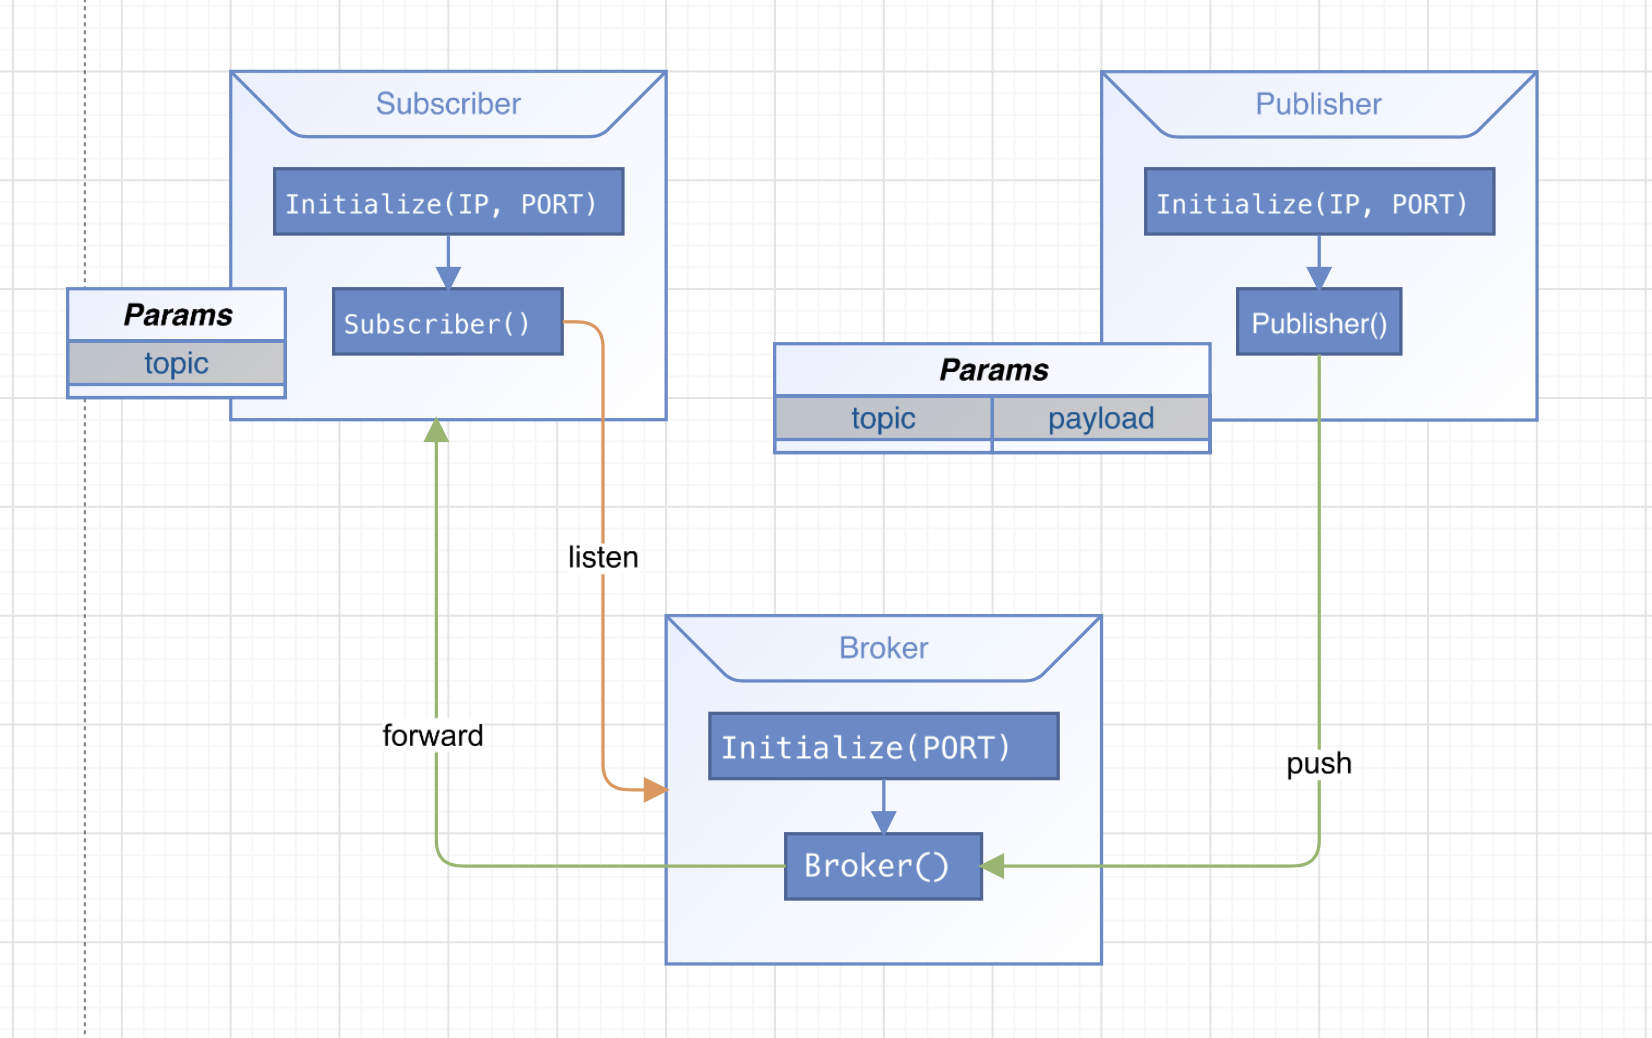
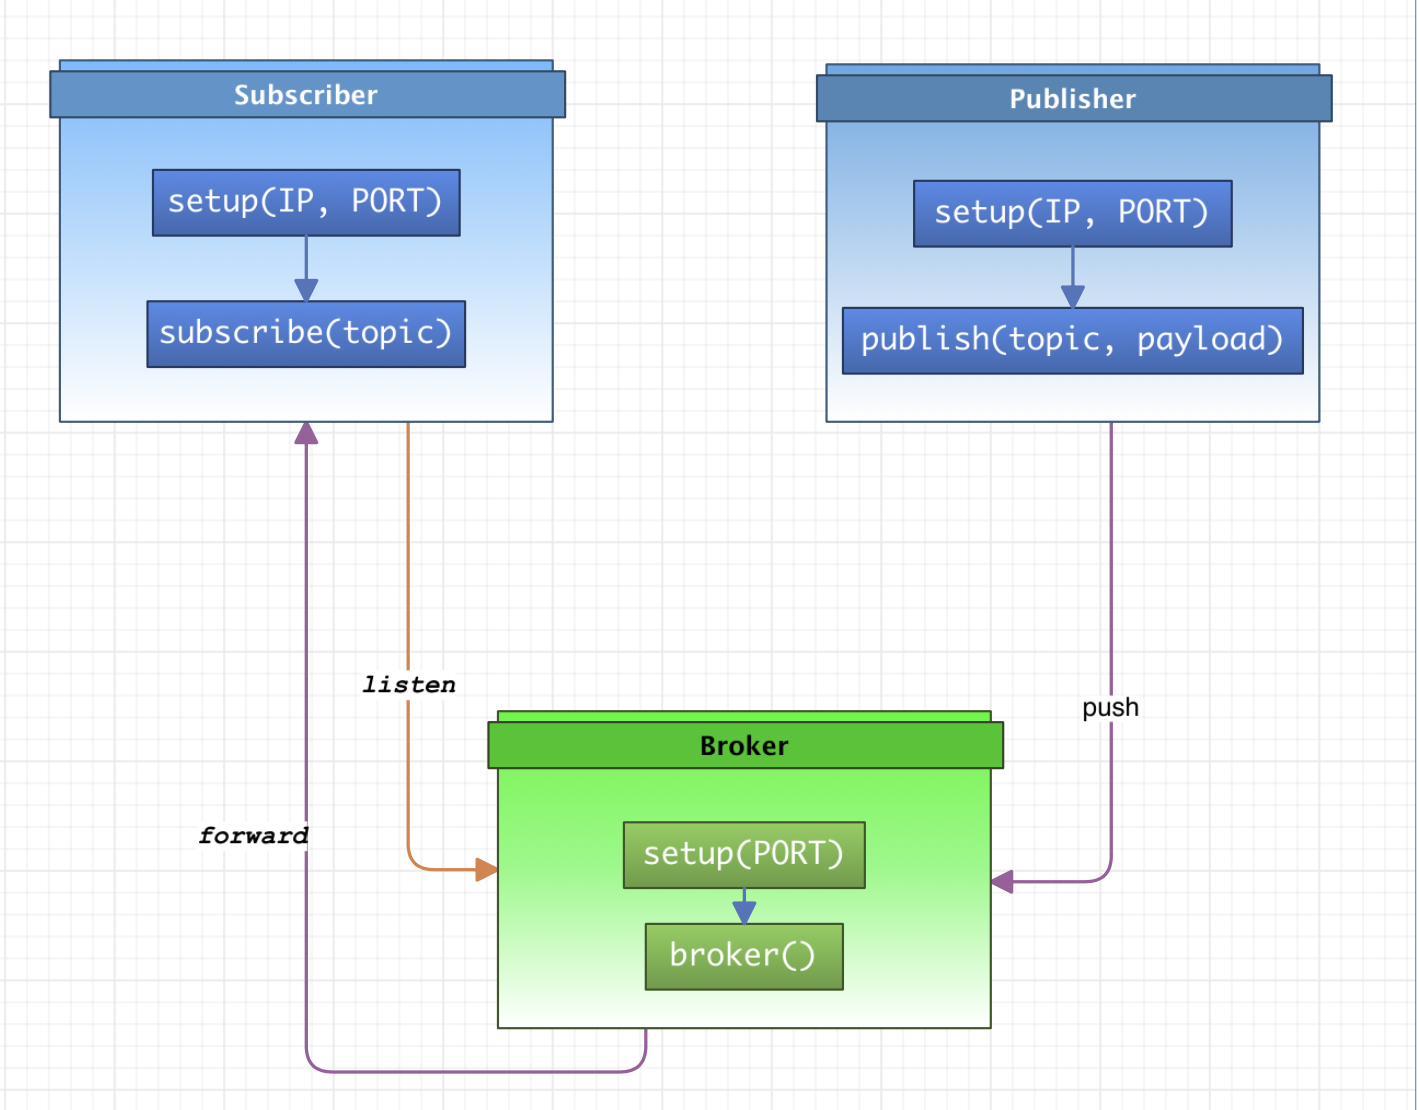
[mod] fix build issue, modify readme

diff --git a/src/scadup/Broker.cpp b/src/scadup/Broker.cpp
@@ -58,7 +58,7 @@ int Scadup::connect(const char* ip, unsigned short port, unsigned int total)
 {
     SOCKET socket = ::socket(AF_INET, SOCK_STREAM, 0);
     if (socket < 0) {
-        LOGE("Generating socket (%s).",
+        LOGE("Generating socket to connect(%s).",
             (errno != 0 ? strerror(errno) : std::to_string(socket).c_str()));
         return -1;
     }
@@ -72,7 +72,7 @@ int Scadup::connect(const char* ip, unsigned short port, unsigned int total)
     unsigned int tries = 0;
     while (::connect(socket, reinterpret_cast<struct sockaddr*>(&local), sizeof(local)) == (-1)) {
         if (tries < total) {
-            wait(Wait100ms * (long)pow(2, tries));
+            wait(Time100ms * (long)pow(2, tries));
             tries++;
         } else {
             LOGE("Retrying to connect (times=%d, %s).", tries, (errno != 0 ? strerror(errno) : "No error"));
@@ -117,7 +117,7 @@ int Broker::setup(unsigned short port)
 
     SOCKET socket = ::socket(AF_INET, SOCK_STREAM, 0);
     if (socket < 0) {
-        LOGE("Generating socket (%s).",
+        LOGE("Generating socket to setup(%s).",
             (errno != 0 ? strerror(errno) : std::to_string(socket).c_str()));
         return -1;
     }
@@ -214,7 +214,7 @@ void Broker::taskAllot(Networks& works, const Network& work)
                     break;
                 } else {
                 }
-                wait(Wait100ms);
+                wait(Time100ms);
             }
             }, work.socket);
         if (task.joinable())
@@ -322,7 +322,7 @@ void Broker::checkAlive(Networks& works, bool* active)
 {
     LOGI("start Network checking task at %p.", active);
     while (active != nullptr && (*active)) {
-        wait(Wait100ms * 3);
+        wait(Time100ms * 3);
         std::lock_guard<std::mutex> lock(m_lock);
         for (auto& work : works) {
             std::vector<Network>& vec = work.second;
@@ -340,7 +340,7 @@ void Broker::checkAlive(Networks& works, bool* active)
                 auto next = std::next(it);
                 works.erase(it);
                 it = next;
-                LOGI("works key(%s) is null deleted! remain=%d", GET_VAL(it->first), works.size());
+                LOGI("works key(%s) is null deleted! now size=%d", GET_VAL(it->first), works.size());
             } else {
                 ++it;
             }
@@ -369,7 +369,8 @@ int Broker::broker()
                     Network work = {};
                     getpeername(sockNew, reinterpret_cast<struct sockaddr*>(&peer), &socklen);
                     char addr[INET_ADDRSTRLEN];
-                    strncpy(work.IP, inet_ntop(AF_INET, &peer.sin_addr, addr, sizeof(addr)), INET_ADDRSTRLEN);
+                    const char* ip = inet_ntop(AF_INET, &peer.sin_addr, addr, INET_ADDRSTRLEN);
+                    strncpy(work.IP, ip, INET_ADDRSTRLEN);
                     work.PORT = ntohs(peer.sin_port);
                     time_t t{};
                     time(&t);
@@ -402,8 +403,8 @@ int Broker::broker()
                             m_networks[head.flag].emplace_back(work);
                         }
                         taskAllot(m_networks, work);
-                        LOGI("a new %s (%s:%d) %d set to Networks, topic=0x%04x, size=%d.",
-                            GET_VAL(head.flag), work.IP, work.PORT, work.socket, head.topic, head.size);
+                        LOGI("a new %s (%s:%d) %d set to Networks, topic=0x%04x, ssid=0x%04x, size=%d.",
+                            GET_VAL(head.flag), work.IP, work.PORT, work.socket, head.topic, ssid, head.size);
                     } else {
                         if (0 == size || errno == EINVAL || (size < 0 && errno != EAGAIN)) {
                             LOGE("Recv fail(%ld), ssid=%llu, close %d: %s", size, head.ssid, sockNew, strerror(errno));

diff --git a/src/scadup/Subscriber.cpp b/src/scadup/Subscriber.cpp
@@ -2,6 +2,7 @@
 
 using namespace Scadup;
 extern const char* GET_VAL(G_ScaFlag x);
+bool Subscriber::m_exit = false;
 
 void Subscriber::setup(const char* ip, unsigned short port)
 {
@@ -16,14 +17,14 @@ void Subscriber::setup(const char* ip, unsigned short port)
 
 ssize_t Subscriber::subscribe(uint32_t topic, RECV_CALLBACK callback)
 {
-    LOGI("subscribe topic=0x%04x, ssid=%llu", topic, m_ssid);
+    LOGI("subscribe topic=0x%04x, ssid=0x%04x", topic, m_ssid);
     Header head{};
     head.flag = SUBSCRIBER;
     head.ssid = m_ssid;
     head.topic = topic;
     size_t len = ::send(m_socket, reinterpret_cast<char*>(&head), HEAD_SIZE, 0);
     if (len == 0 || (len < 0 && errno == EPIPE)) {
-        close(m_socket);
+        ::close(m_socket);
         LOGE("Write to sock %d, ssid %llu failed!", m_socket, m_ssid);
         return -1;
     }
@@ -33,14 +34,14 @@ ssize_t Subscriber::subscribe(uint32_t topic, RECV_CALLBACK callback)
             LOGW("Subscribe will exit");
             break;
         }
-        wait(Wait100ms);
+        wait(Time100ms);
         Message msg = {};
         const size_t size = HEAD_SIZE + sizeof(Message::Payload::status);
         memset(static_cast<void*>(&msg), 0, size);
         ssize_t len = ::recv(m_socket, reinterpret_cast<char*>(&msg), size, MSG_WAITALL);
         if (len == 0 || (len < 0 && errno != EAGAIN)) {
             LOGE("Receive msg fail[%ld], %s", len, strerror(errno));
-            close(m_socket);
+            ::close(m_socket);
             return -2;
         }
         if (memcmp(reinterpret_cast<char*>(&msg), "Scadup", 7) == 0)
@@ -54,7 +55,7 @@ ssize_t Subscriber::subscribe(uint32_t topic, RECV_CALLBACK callback)
             len = writes(m_socket, reinterpret_cast<uint8_t*>(&msg), size);
             if (len < 0) {
                 LOGE("Writes %s", strerror(errno));
-                close(m_socket);
+                ::close(m_socket);
                 return -3;
             }
             LOGI("MQ writes %ld [%lld] %s.", len, msg.head.ssid, GET_VAL(msg.head.flag));
@@ -70,7 +71,7 @@ ssize_t Subscriber::subscribe(uint32_t topic, RECV_CALLBACK callback)
             len = ::recv(m_socket, body, length, 0);
             if (len < 0 || (len == 0 && errno != EINTR)) {
                 LOGE("Receive body fail, %s", strerror(errno));
-                close(m_socket);
+                ::close(m_socket);
                 Delete(body);
                 return -5;
             } else {
@@ -106,23 +107,27 @@ void Subscriber::keepalive(SOCKET socket, bool& exit)
         head.flag = SUBSCRIBER;
         size_t len = ::send(socket, reinterpret_cast<char*>(&head), HEAD_SIZE, 0);
         if (len == 0 || (len < 0 && errno == EPIPE)) {
-            close(socket);
+            ::close(socket);
             LOGE("Write to sock[%d], cmd %zu failed!", socket, head.cmd);
             break;
         }
-        wait(Wait100ms * 3);
+        wait(Time100ms * 3);
+    }
+}
+
+void Subscriber::close()
+{
+    Header head{};
+    head.cmd = 0xff;
+    ::send(m_socket, &head, HEAD_SIZE, 0);
+    wait(Time100ms);
+    if (m_socket > 0) {
+        ::close(m_socket);
+        m_socket = 0;
     }
 }
 
 void Subscriber::exit()
 {
-    Header head{};
-    head.cmd = 0xff;
-    ::send(m_socket, &head, HEAD_SIZE, 0);
     m_exit = true;
-    wait(Wait100ms);
-    if (m_socket > 0) {
-        close(m_socket);
-        m_socket = 0;
-    }
 }

diff --git a/src/scadup/Scadup.h b/src/scadup/Scadup.h
@@ -28,7 +28,7 @@ extern "C" {
 }
 
 using SOCKET = int;
-const unsigned int Wait100ms = 100;
+const unsigned int Time100ms = 100;
 #define write(x,y,z) ::send(x,(char*)(y),z,MSG_NOSIGNAL)
 #define Delete(ptr) { if (ptr != nullptr) { delete[] ptr; ptr = nullptr; } }
 
@@ -51,7 +51,7 @@ namespace Scadup {
         G_ScaFlag flag;
         uint32_t size;
         uint32_t topic;
-        volatile uint64_t ssid; //ssid = (port | key | ip)
+        volatile uint64_t ssid; // ssid = (port | key | ip)
     } __attribute__((aligned(4)));
     struct Message {
         Header head{};
@@ -104,20 +104,20 @@ namespace Scadup {
     private:
         ssize_t broadcast(const uint8_t*, size_t);
     private:
-        SOCKET m_socket;
-        uint64_t m_ssid;
+        SOCKET m_socket = 0;
+        uint64_t m_ssid = 0;
     };
     class Subscriber {
     public:
         void setup(const char*, unsigned short = 9999);
         ssize_t subscribe(uint32_t, RECV_CALLBACK = nullptr);
-        void exit();
+        void close();
+        static void exit();
     private:
         void keepalive(SOCKET, bool&);
     private:
-        uint64_t m_ssid;
-        uint32_t m_topic;
+        static bool m_exit;
+        uint64_t m_ssid = 0;
         SOCKET m_socket = 0;
-        bool m_exit = false;
     };
 }

diff --git a/src/scadup/Publisher.cpp b/src/scadup/Publisher.cpp
@@ -28,7 +28,7 @@ ssize_t Publisher::broadcast(const uint8_t* data, size_t len)
 
 int Publisher::publish(uint32_t topic, const std::string& payload, ...)
 {
-    LOGI("begin publish to BROKER, ssid=%llu, msg=\"%s\"", m_ssid, payload.c_str());
+    LOGI("begin publish to BROKER, ssid=0x%04x, msg=\"%s\"", m_ssid, payload.c_str());
     size_t size = payload.size();
     if (size == 0) {
         LOGW("Payload was empty!");
@@ -54,8 +54,8 @@ int Publisher::publish(uint32_t topic, const std::string& payload, ...)
 
     ssize_t bytes = broadcast(message, msgLen);
     LOGI("broadcast message size expect=%d, bytes=%d.", msgLen, bytes);
-    wait(1000);
+    wait(Time100ms);
     Delete(message);
 
-    return 0;
+    return bytes;
 }

diff --git a/src/utils/logging.h b/src/utils/logging.h
@@ -22,7 +22,11 @@ inline const char* basename(const char* name)
 #endif
 #ifdef __ANDROID__
 #include <android/log.h>
+#ifdef __cplusplus
 #define _LOG_(level, fmt, ...) __android_log_print(level, LOG_TAG,"(%s:%d)[%s]: " fmt, basename(const_cast<char*>(__FILE__)), __LINE__, __FUNCTION__, ##__VA_ARGS__)
+#else
+#define _LOG_(level, fmt, ...) __android_log_print(level, LOG_TAG,"(%s:%d)[%s]: " fmt, basename(__FILE__), __LINE__, __FUNCTION__, ##__VA_ARGS__)
+#endif
 #define LOGD(fmt, ...) _LOG_(ANDROID_LOG_DEBUG, fmt, ##__VA_ARGS__)
 #define LOGI(fmt, ...) _LOG_(ANDROID_LOG_INFO, fmt, ##__VA_ARGS__)
 #define LOGW(fmt, ...) _LOG_(ANDROID_LOG_WARN, fmt, ##__VA_ARGS__)

diff --git a/src/utils/FileUtils.cpp b/src/utils/FileUtils.cpp
@@ -36,7 +36,11 @@ std::string FileUtils::GetFileStringContent(const std::string& filename)
         file.seekg(0, std::ios::end);
         content.resize(file.tellg());
         file.seekg(0, std::ios::beg);
-        file.read(&content[0], content.size());
+        size_t size = content.size();
+        if (size > 0x1000000) {
+            size = 0x1000000;
+        }
+        file.read(&content[0], size);
         file.close();
     }
     return content;

diff --git a/doc/readme.md b/doc/readme.md
@@ -1,32 +1,21 @@
 # Describing
 
-* Run as server
-
-    When instantiates the `Scadup` class, you can call `Initialize(PORT)` to initialize;
-    then call `Start()` to start a server, you can also register callbacks to deal received data by calling
-    `registerCallback()/appendCallback` with a parameter in `TASK_CALLBACK` format.
-
-* Run as client
-
-    Call `Initialize(IP, PORT)` to initialize, then call `Connect()` to start a client.
-
-    ![client-server](client-server.png)
-
 * Run as broker
 
-    Call `Initialize(PORT)` to initialize, then call `Broker()` to start a broker server proxy.
+    Call `setup(PORT)` to make a socket, then call `broker()` to start a broker server proxy.
 
 * Run as publisher
 
-    Call `Initialize(IP, PORT)` to initialize,
-    then call `Publisher(topic, payload)` to publish `payload` over `topic` to broker.
+    Call `setup(IP, PORT)` to make a socket,
+    then call `publish(topic, payload)` to publish `payload` over `topic` to broker.
     IP/PORT is the broker ip/port, it is a short connection.
 
 * Run as subscriber
 
-    Call `Initialize(IP, PORT)` to initialize, then call `Subscriber(topic)` to run as subscriber;
-    the `topic` is a mark string to match the connection of publisher, so we can get message from the `topic`.
+    Call `setup(IP, PORT)` to make a socket, then call `subscribe(topic)` to run as a subscriber;
+    the `topic` is a mark for broker to identify the publisher, then we can get message from the `topic`.
 
+    It works like below:
     ![message-queue](message-queue.png)
 
 ## Usage
